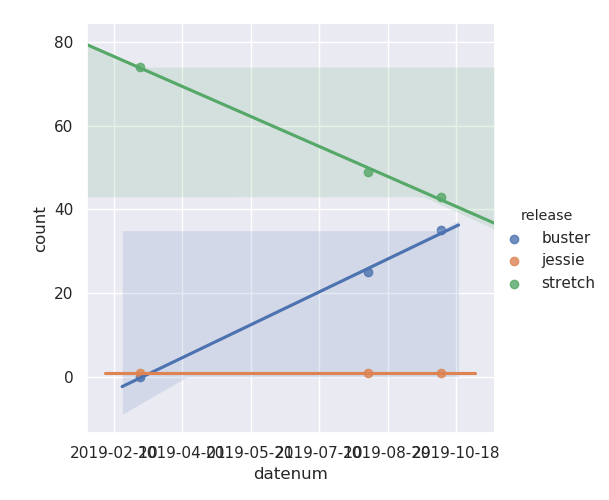
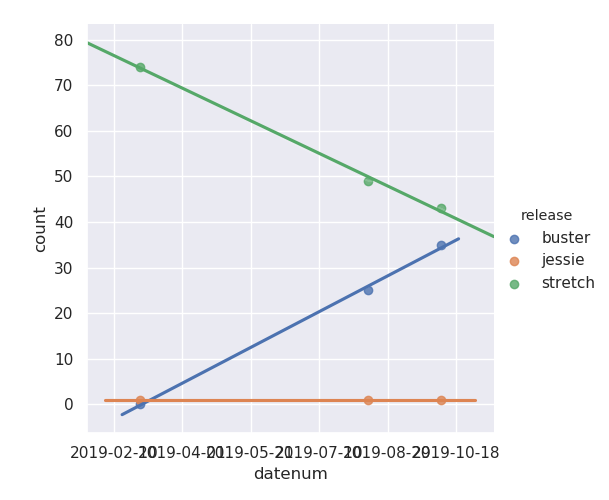
remove the CI areas, they look wrong

diff --git a/tsa/howto/upgrades/predict-os.py b/tsa/howto/upgrades/predict-os.py
@@ -200,7 +200,9 @@ def fake_dates(x, pos):
 def plot_records(records, args):
     '''draw the actual graph, on the GUI or in a file as args dictates'''
     sns.set(color_codes=True)
-    graph = sns.lmplot(x='datenum', y='count', hue='release', data=records)
+    # ci=False because it looks kind of wrong
+    graph = sns.lmplot(x='datenum', y='count', hue='release',
+                       data=records, ci=False)
     # return numeric dates into human-readable
     graph.ax.xaxis.set_major_formatter(fake_dates)
 
